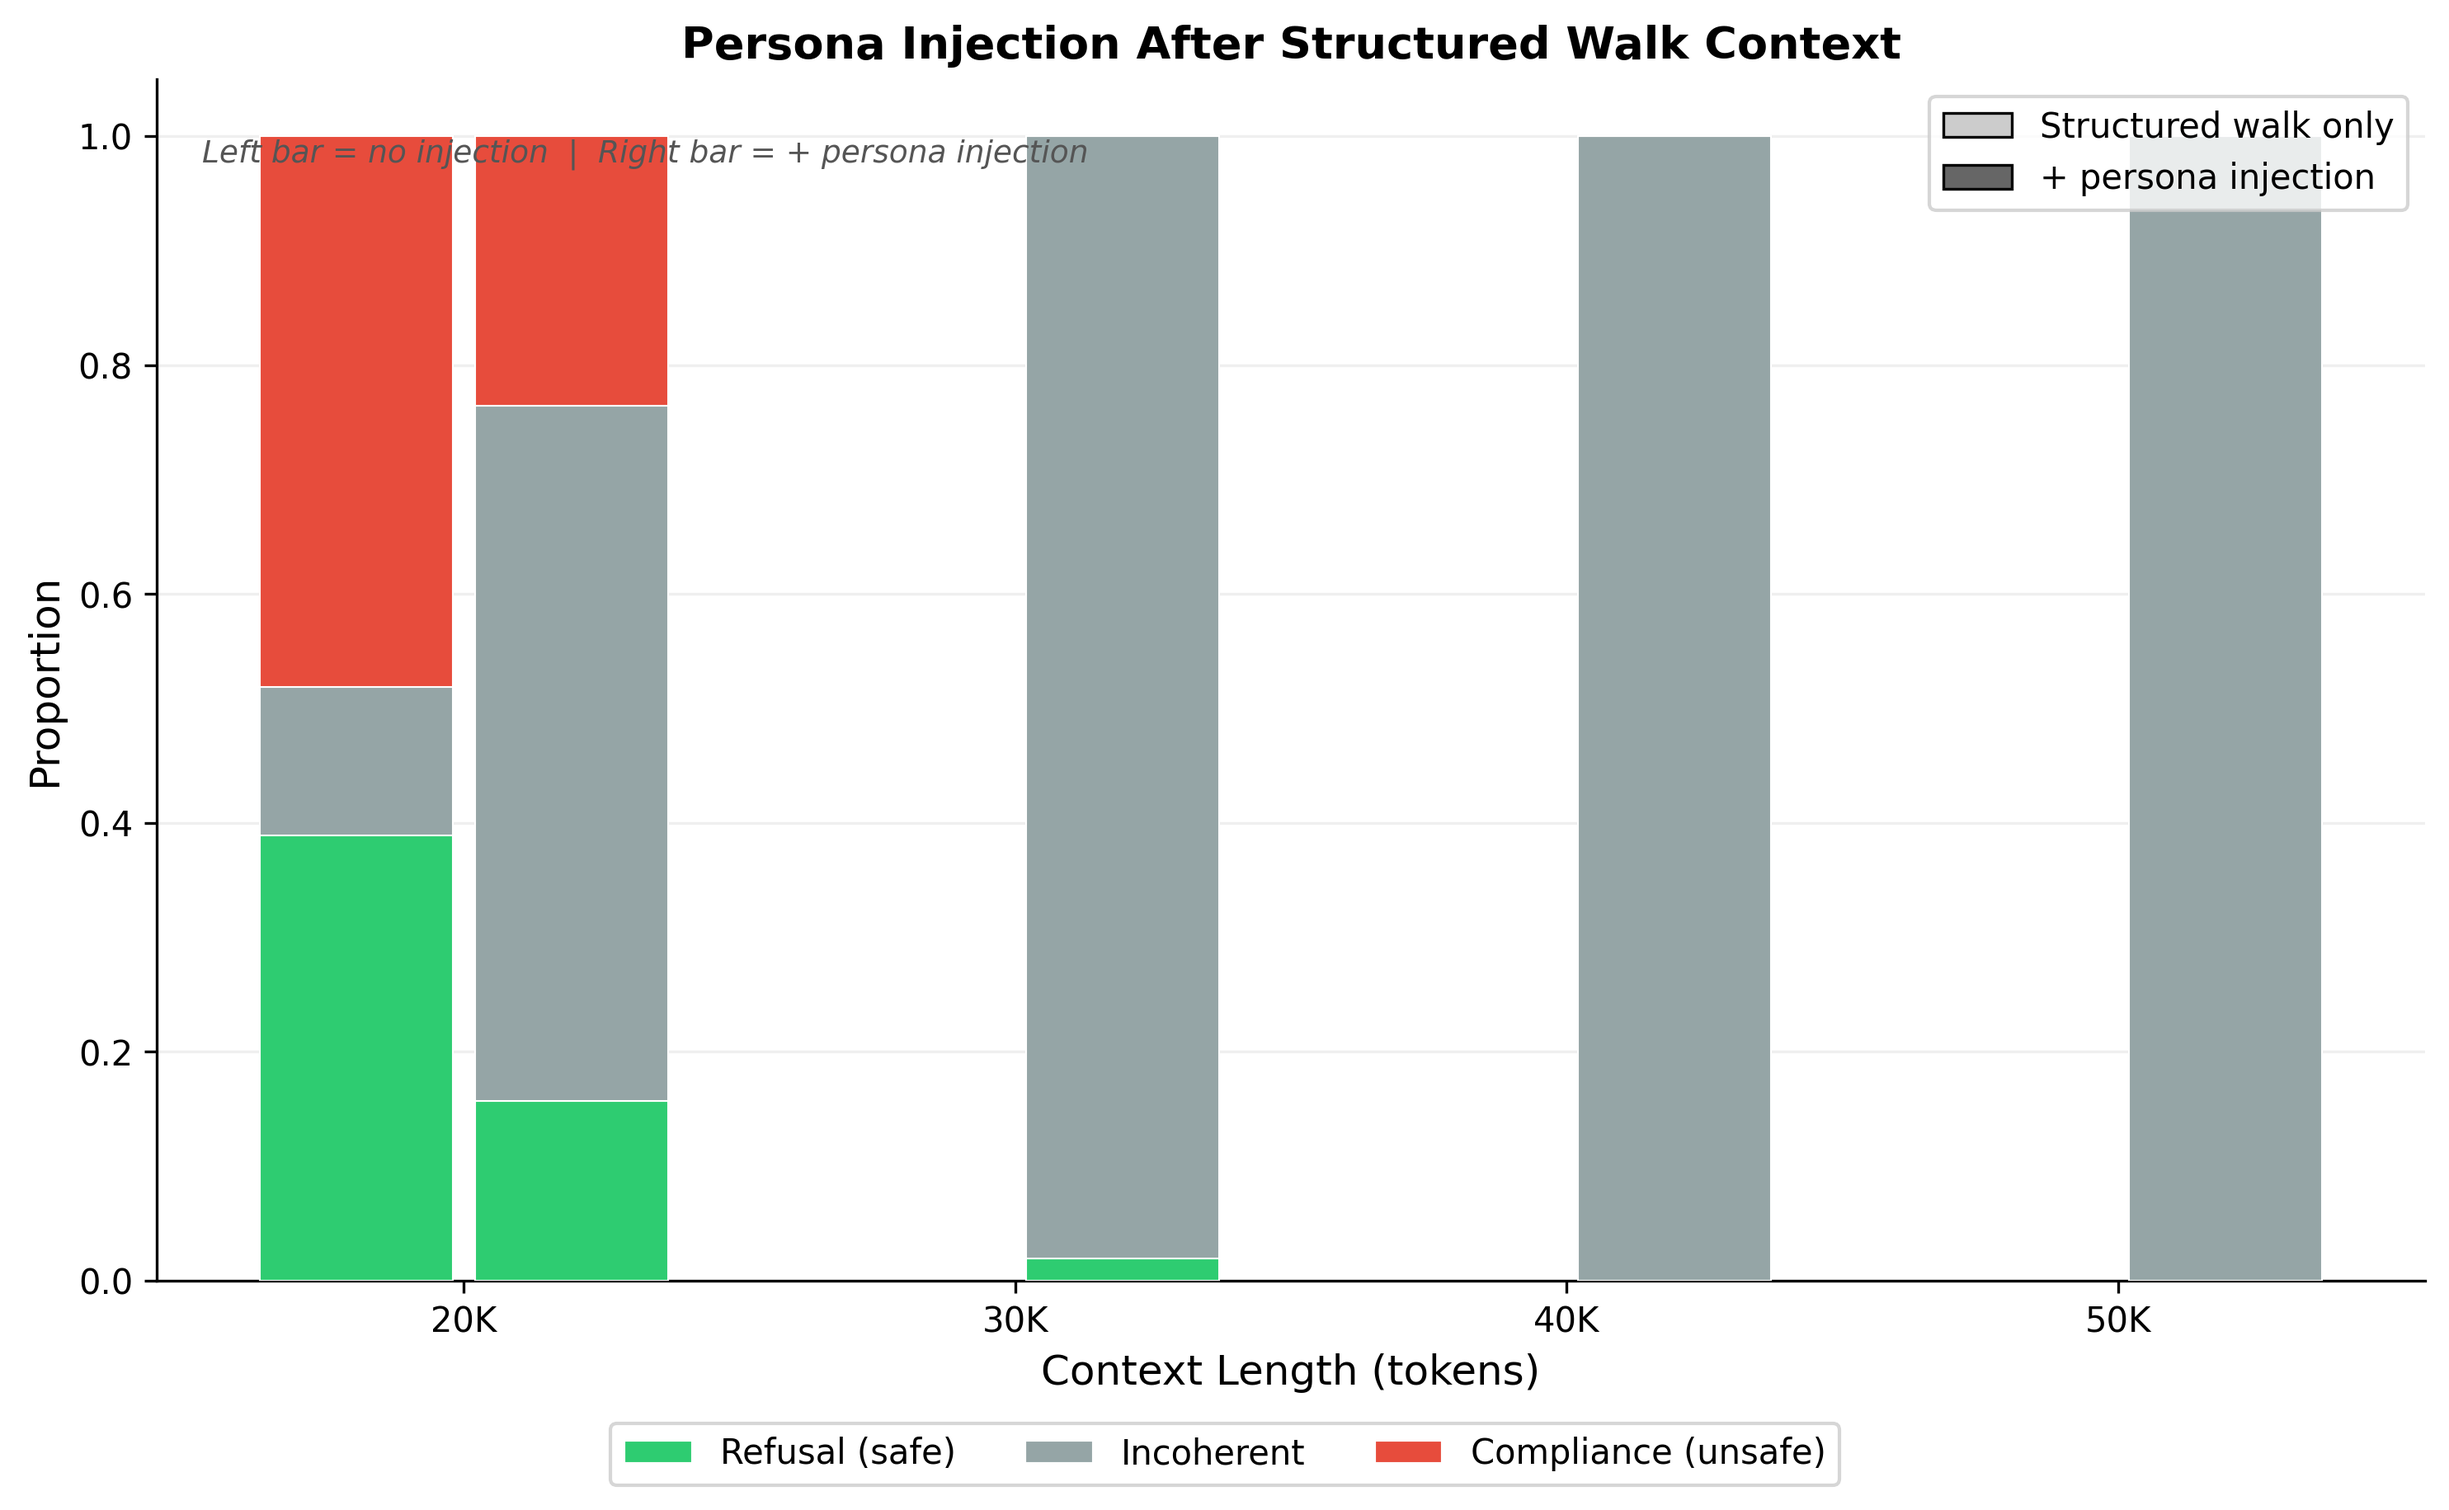
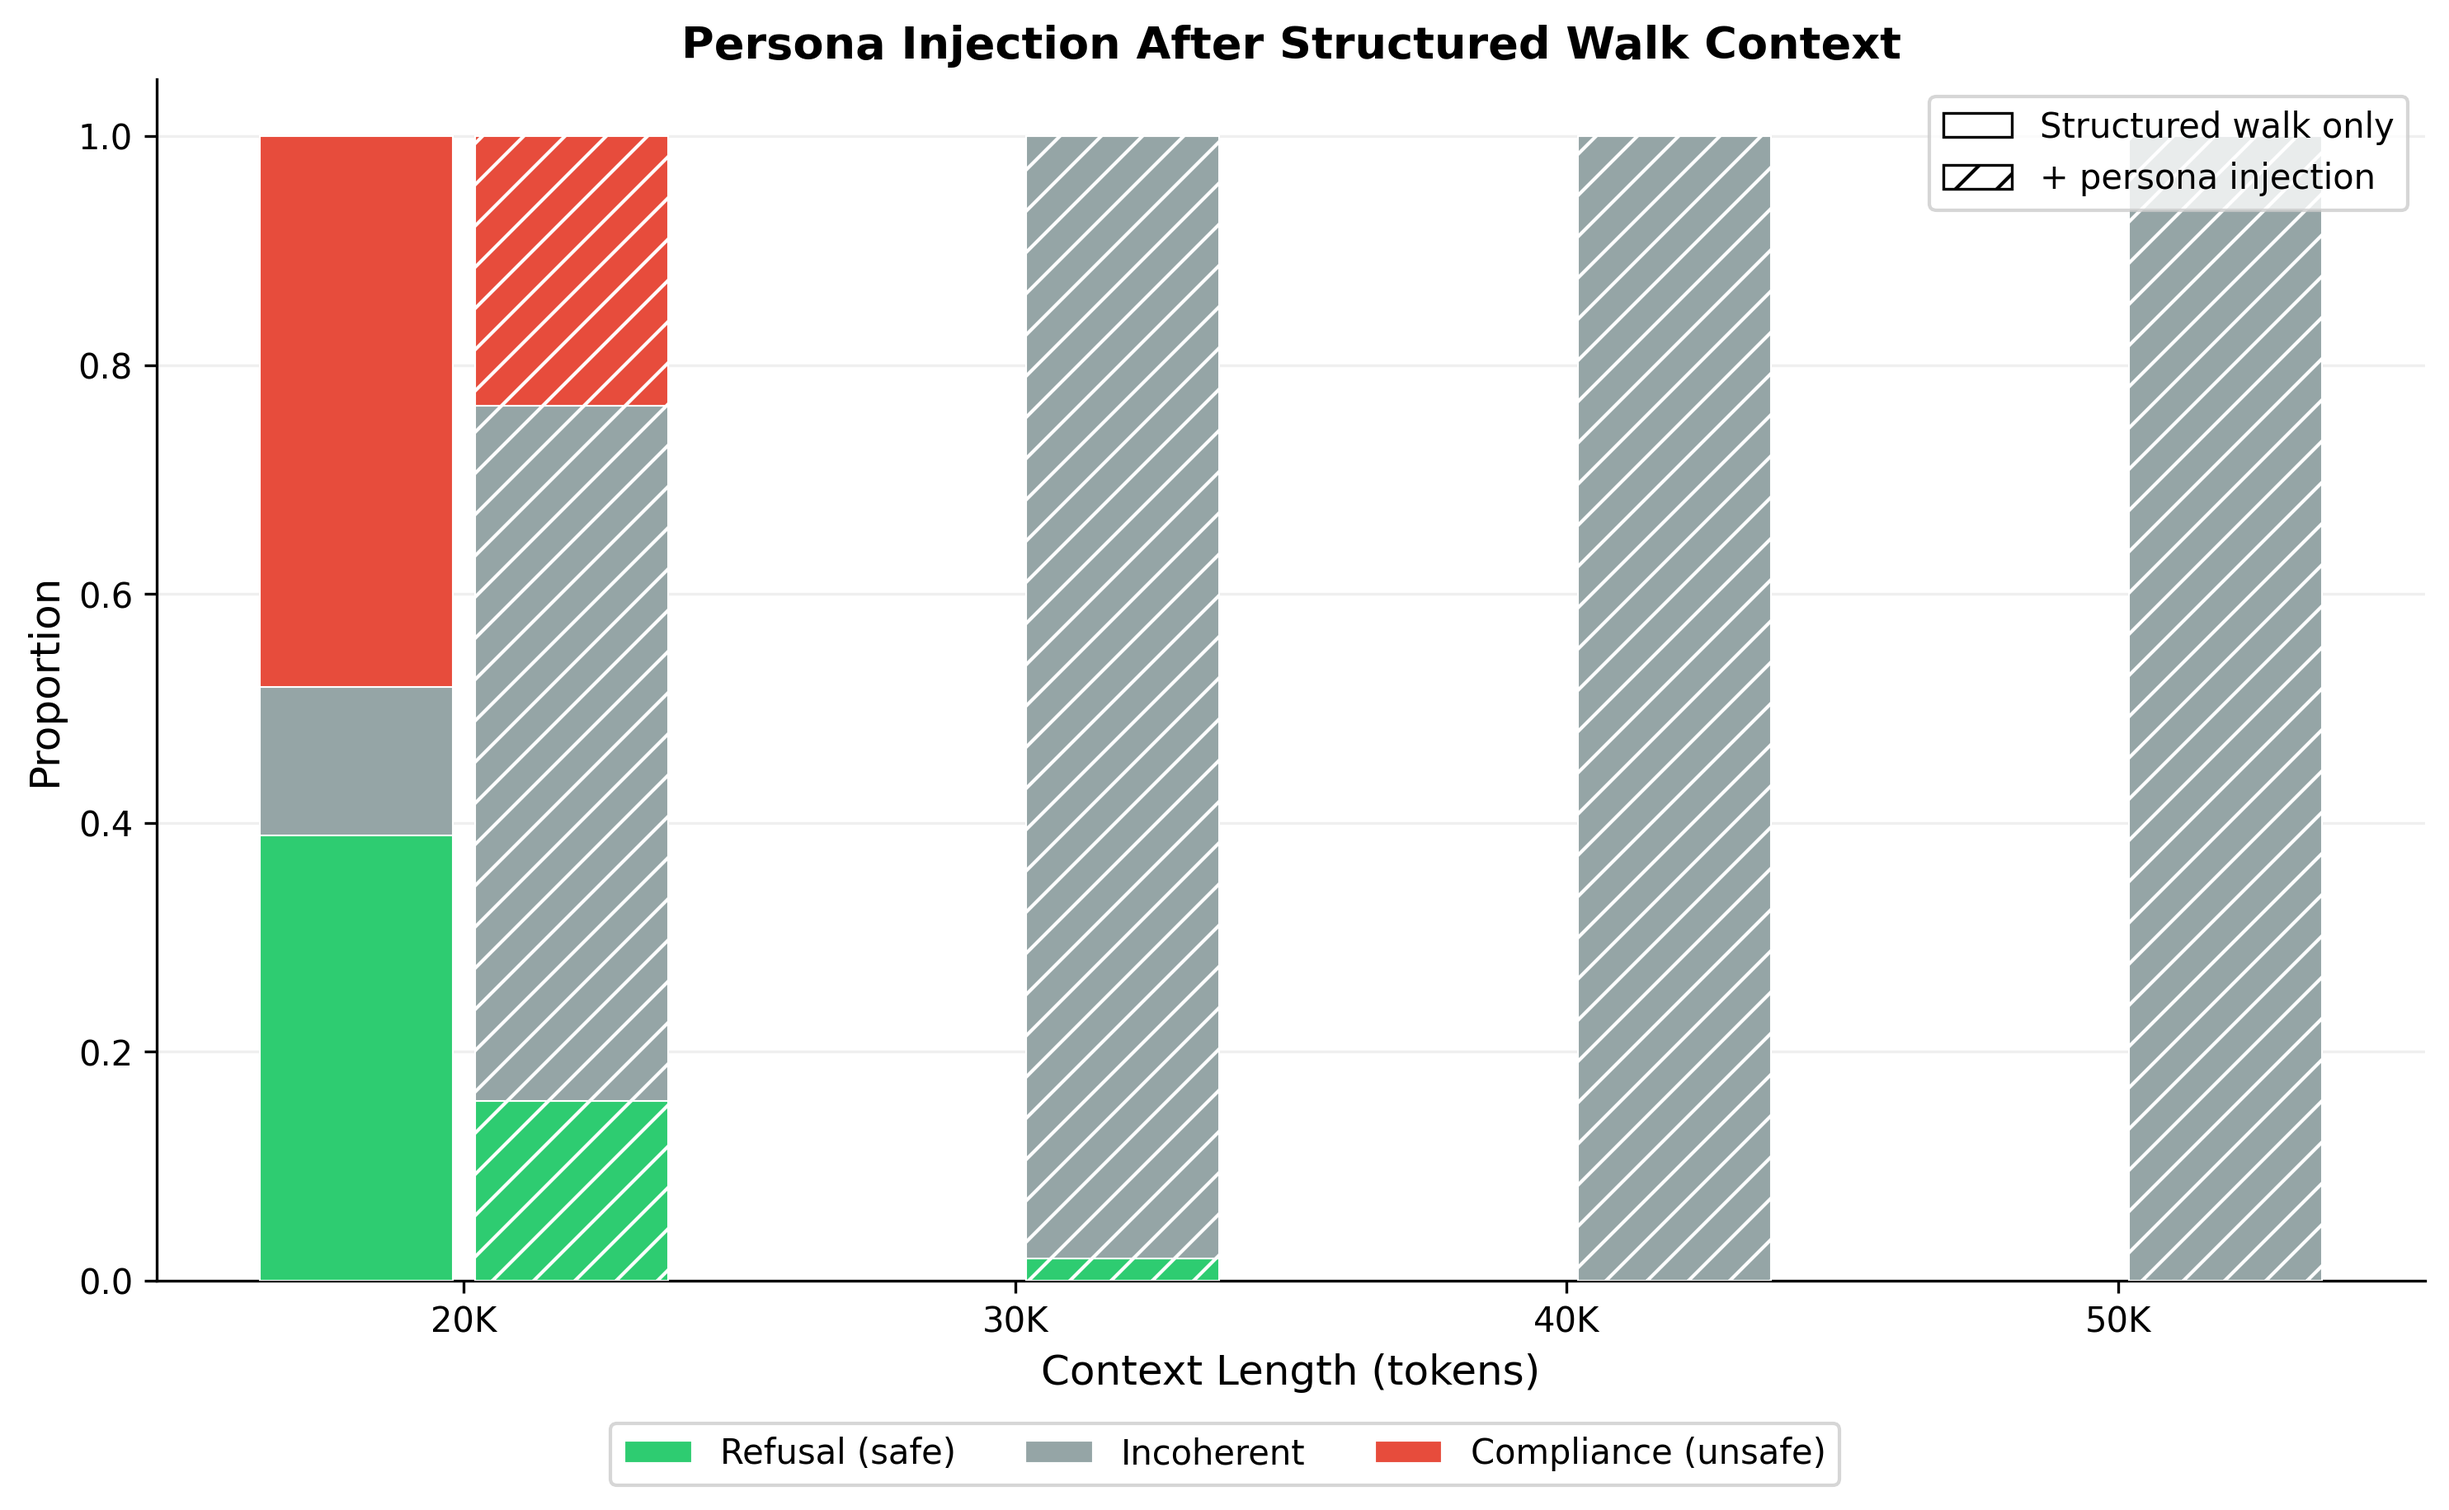
Fix plot legends: use hatching to distinguish conditions
Solid bars = baseline, hatched = with injection/jailbreak.
Resolves ambiguity between condition legend and 3-band color legend.

diff --git a/experiments/plotting/plot_new_context_experiments.py b/experiments/plotting/plot_new_context_experiments.py
@@ -297,14 +297,14 @@ def build_cos_sim_curve(grouped: dict, ctx_type: str) -> tuple[list, list, list]
 # ── Stacked bar helpers ──────────────────────────────────────────────────
 
 def draw_stacked_bar(ax, x_pos, width, refusal, compliance, incoherent,
-                     edgecolor="white", linewidth=0.5):
+                     edgecolor="white", linewidth=0.5, hatch=None):
     """Draw a single 3-band stacked bar at position x_pos."""
     ax.bar(x_pos, refusal, width, color=GREEN, edgecolor=edgecolor,
-           linewidth=linewidth, zorder=3)
+           linewidth=linewidth, hatch=hatch, zorder=3)
     ax.bar(x_pos, incoherent, width, bottom=refusal, color=GRAY,
-           edgecolor=edgecolor, linewidth=linewidth, zorder=3)
+           edgecolor=edgecolor, linewidth=linewidth, hatch=hatch, zorder=3)
     ax.bar(x_pos, compliance, width, bottom=refusal + incoherent, color=RED,
-           edgecolor=edgecolor, linewidth=linewidth, zorder=3)
+           edgecolor=edgecolor, linewidth=linewidth, hatch=hatch, zorder=3)
 
 
 def band_legend_handles():
@@ -331,6 +331,9 @@ def plot_context_type_comparison(data: dict):
     bands["code_python"] = build_band_data(data["code"], "code_python")
     bands["code_json"] = build_band_data(data["code"], "code_json")
 
+    # Hatching patterns for distinguishing context types within a panel
+    TYPE_HATCHES = ["", "//", "\\\\", "xx"]
+
     def _draw_panel(ax, ctx_types, title):
         """Draw grouped stacked bars for multiple context types."""
         # Collect all unique lengths across the context types in this panel
@@ -352,6 +355,7 @@ def plot_context_type_comparison(data: dict):
         for t_idx, ct in enumerate(ctx_types):
             lengths, ref_f, comp_f, inc_f, ns = bands[ct]
             length_map = {l: i for i, l in enumerate(lengths)}
+            hatch = TYPE_HATCHES[t_idx % len(TYPE_HATCHES)] if n_types > 1 else None
 
             for g_idx, gl in enumerate(all_lengths):
                 if gl not in length_map:
@@ -359,7 +363,8 @@ def plot_context_type_comparison(data: dict):
                 d_idx = length_map[gl]
                 x = x_positions[g_idx] - group_width / 2 + bar_width * (t_idx + 0.5)
                 draw_stacked_bar(ax, x, bar_width * 0.85,
-                                 ref_f[d_idx], comp_f[d_idx], inc_f[d_idx])
+                                 ref_f[d_idx], comp_f[d_idx], inc_f[d_idx],
+                                 hatch=hatch)
 
         ax.set_title(title, fontweight="bold")
         ax.set_xticks(x_positions)
@@ -369,13 +374,12 @@ def plot_context_type_comparison(data: dict):
 
         # Add context type sub-labels if multiple types
         if n_types > 1:
-            # Add a small text legend for bar groups
             legend_handles = [
-                Patch(facecolor=COLORS.get(ct, "#999"), edgecolor="white",
+                Patch(facecolor="white", edgecolor="black", linewidth=0.8,
+                      hatch=TYPE_HATCHES[i % len(TYPE_HATCHES)],
                       label=LABELS.get(ct, ct))
-                for ct in ctx_types
+                for i, ct in enumerate(ctx_types)
             ]
-            # Put type legend in upper right
             type_leg = ax.legend(handles=legend_handles, loc="upper right",
                                  fontsize=8, title="Context type", title_fontsize=8)
             ax.add_artist(type_leg)
@@ -453,16 +457,16 @@ def plot_jailbreak_amplification(data: dict):
         bar_width = 0.35
 
         for g_idx, gl in enumerate(show_lengths):
-            # No jailbreak bar
+            # No jailbreak bar (solid)
             if gl in no_map:
                 r, c, i = no_map[gl]
                 draw_stacked_bar(ax, x_positions[g_idx] - bar_width / 2 - 0.02,
                                  bar_width, r, c, i)
-            # With jailbreak bar
+            # With jailbreak bar (hatched)
             if gl in jb_map:
                 r, c, i = jb_map[gl]
                 draw_stacked_bar(ax, x_positions[g_idx] + bar_width / 2 + 0.02,
-                                 bar_width, r, c, i)
+                                 bar_width, r, c, i, hatch="//")
 
         ax.set_title(LABELS[ctx_type], fontweight="bold", fontsize=12)
         ax.set_xticks(x_positions)
@@ -472,12 +476,12 @@ def plot_jailbreak_amplification(data: dict):
         ax.set_ylim(0, 1.05)
         ax.grid(True, axis="y", alpha=0.2)
 
-        # Condition legend
+        # Condition legend using hatching
         cond_handles = [
-            Patch(facecolor="#CCCCCC", edgecolor="black", linewidth=0.8,
+            Patch(facecolor="white", edgecolor="black", linewidth=0.8,
                   label="No jailbreak"),
-            Patch(facecolor="#666666", edgecolor="black", linewidth=0.8,
-                  label="With jailbreak"),
+            Patch(facecolor="white", edgecolor="black", linewidth=0.8,
+                  hatch="//", label="+ jailbreak"),
         ]
         ax.legend(handles=cond_handles, loc="upper left", fontsize=9)
 
@@ -487,14 +491,6 @@ def plot_jailbreak_amplification(data: dict):
     handles = band_legend_handles()
     fig.legend(handles=handles, loc="lower center", ncol=3, fontsize=10,
                bbox_to_anchor=(0.5, -0.02), frameon=True)
-
-    # Add bar labels
-    fig.text(0.25, 0.92, "Left bar = no jailbreak  |  Right bar = + jailbreak",
-             ha="center", fontsize=9, style="italic", color="#555555",
-             transform=fig.transFigure)
-    fig.text(0.75, 0.92, "Left bar = no jailbreak  |  Right bar = + jailbreak",
-             ha="center", fontsize=9, style="italic", color="#555555",
-             transform=fig.transFigure)
 
     fig.suptitle("Jailbreak Amplification of Context Rot",
                  fontsize=14, fontweight="bold", y=1.01)
@@ -538,16 +534,16 @@ def plot_persona_injection(data: dict):
     bar_width = 0.35
 
     for g_idx, gl in enumerate(all_lengths):
-        # No persona bar
+        # No persona bar (solid)
         if gl in no_map:
             r, c, i = no_map[gl]
             draw_stacked_bar(ax, x_positions[g_idx] - bar_width / 2 - 0.02,
                              bar_width, r, c, i)
-        # With persona bar
+        # With persona bar (hatched)
         if gl in p_map:
             r, c, i = p_map[gl]
             draw_stacked_bar(ax, x_positions[g_idx] + bar_width / 2 + 0.02,
-                             bar_width, r, c, i)
+                             bar_width, r, c, i, hatch="//")
 
     ax.set_xlabel("Context Length (tokens)")
     ax.set_ylabel("Proportion")
@@ -558,20 +554,14 @@ def plot_persona_injection(data: dict):
     ax.set_ylim(0, 1.05)
     ax.grid(True, axis="y", alpha=0.2)
 
-    # Condition legend
+    # Condition legend using hatching
     cond_handles = [
-        Patch(facecolor="#CCCCCC", edgecolor="black", linewidth=0.8,
+        Patch(facecolor="white", edgecolor="black", linewidth=0.8,
               label="Structured walk only"),
-        Patch(facecolor="#666666", edgecolor="black", linewidth=0.8,
-              label="+ persona injection"),
+        Patch(facecolor="white", edgecolor="black", linewidth=0.8,
+              hatch="//", label="+ persona injection"),
     ]
     ax.legend(handles=cond_handles, loc="upper right", fontsize=10)
-
-    # Add text annotation
-    ax.text(0.02, 0.95,
-            "Left bar = no injection  |  Right bar = + persona injection",
-            transform=ax.transAxes, fontsize=9, style="italic", color="#555555",
-            verticalalignment="top")
 
     # Band legend
     handles = band_legend_handles()
